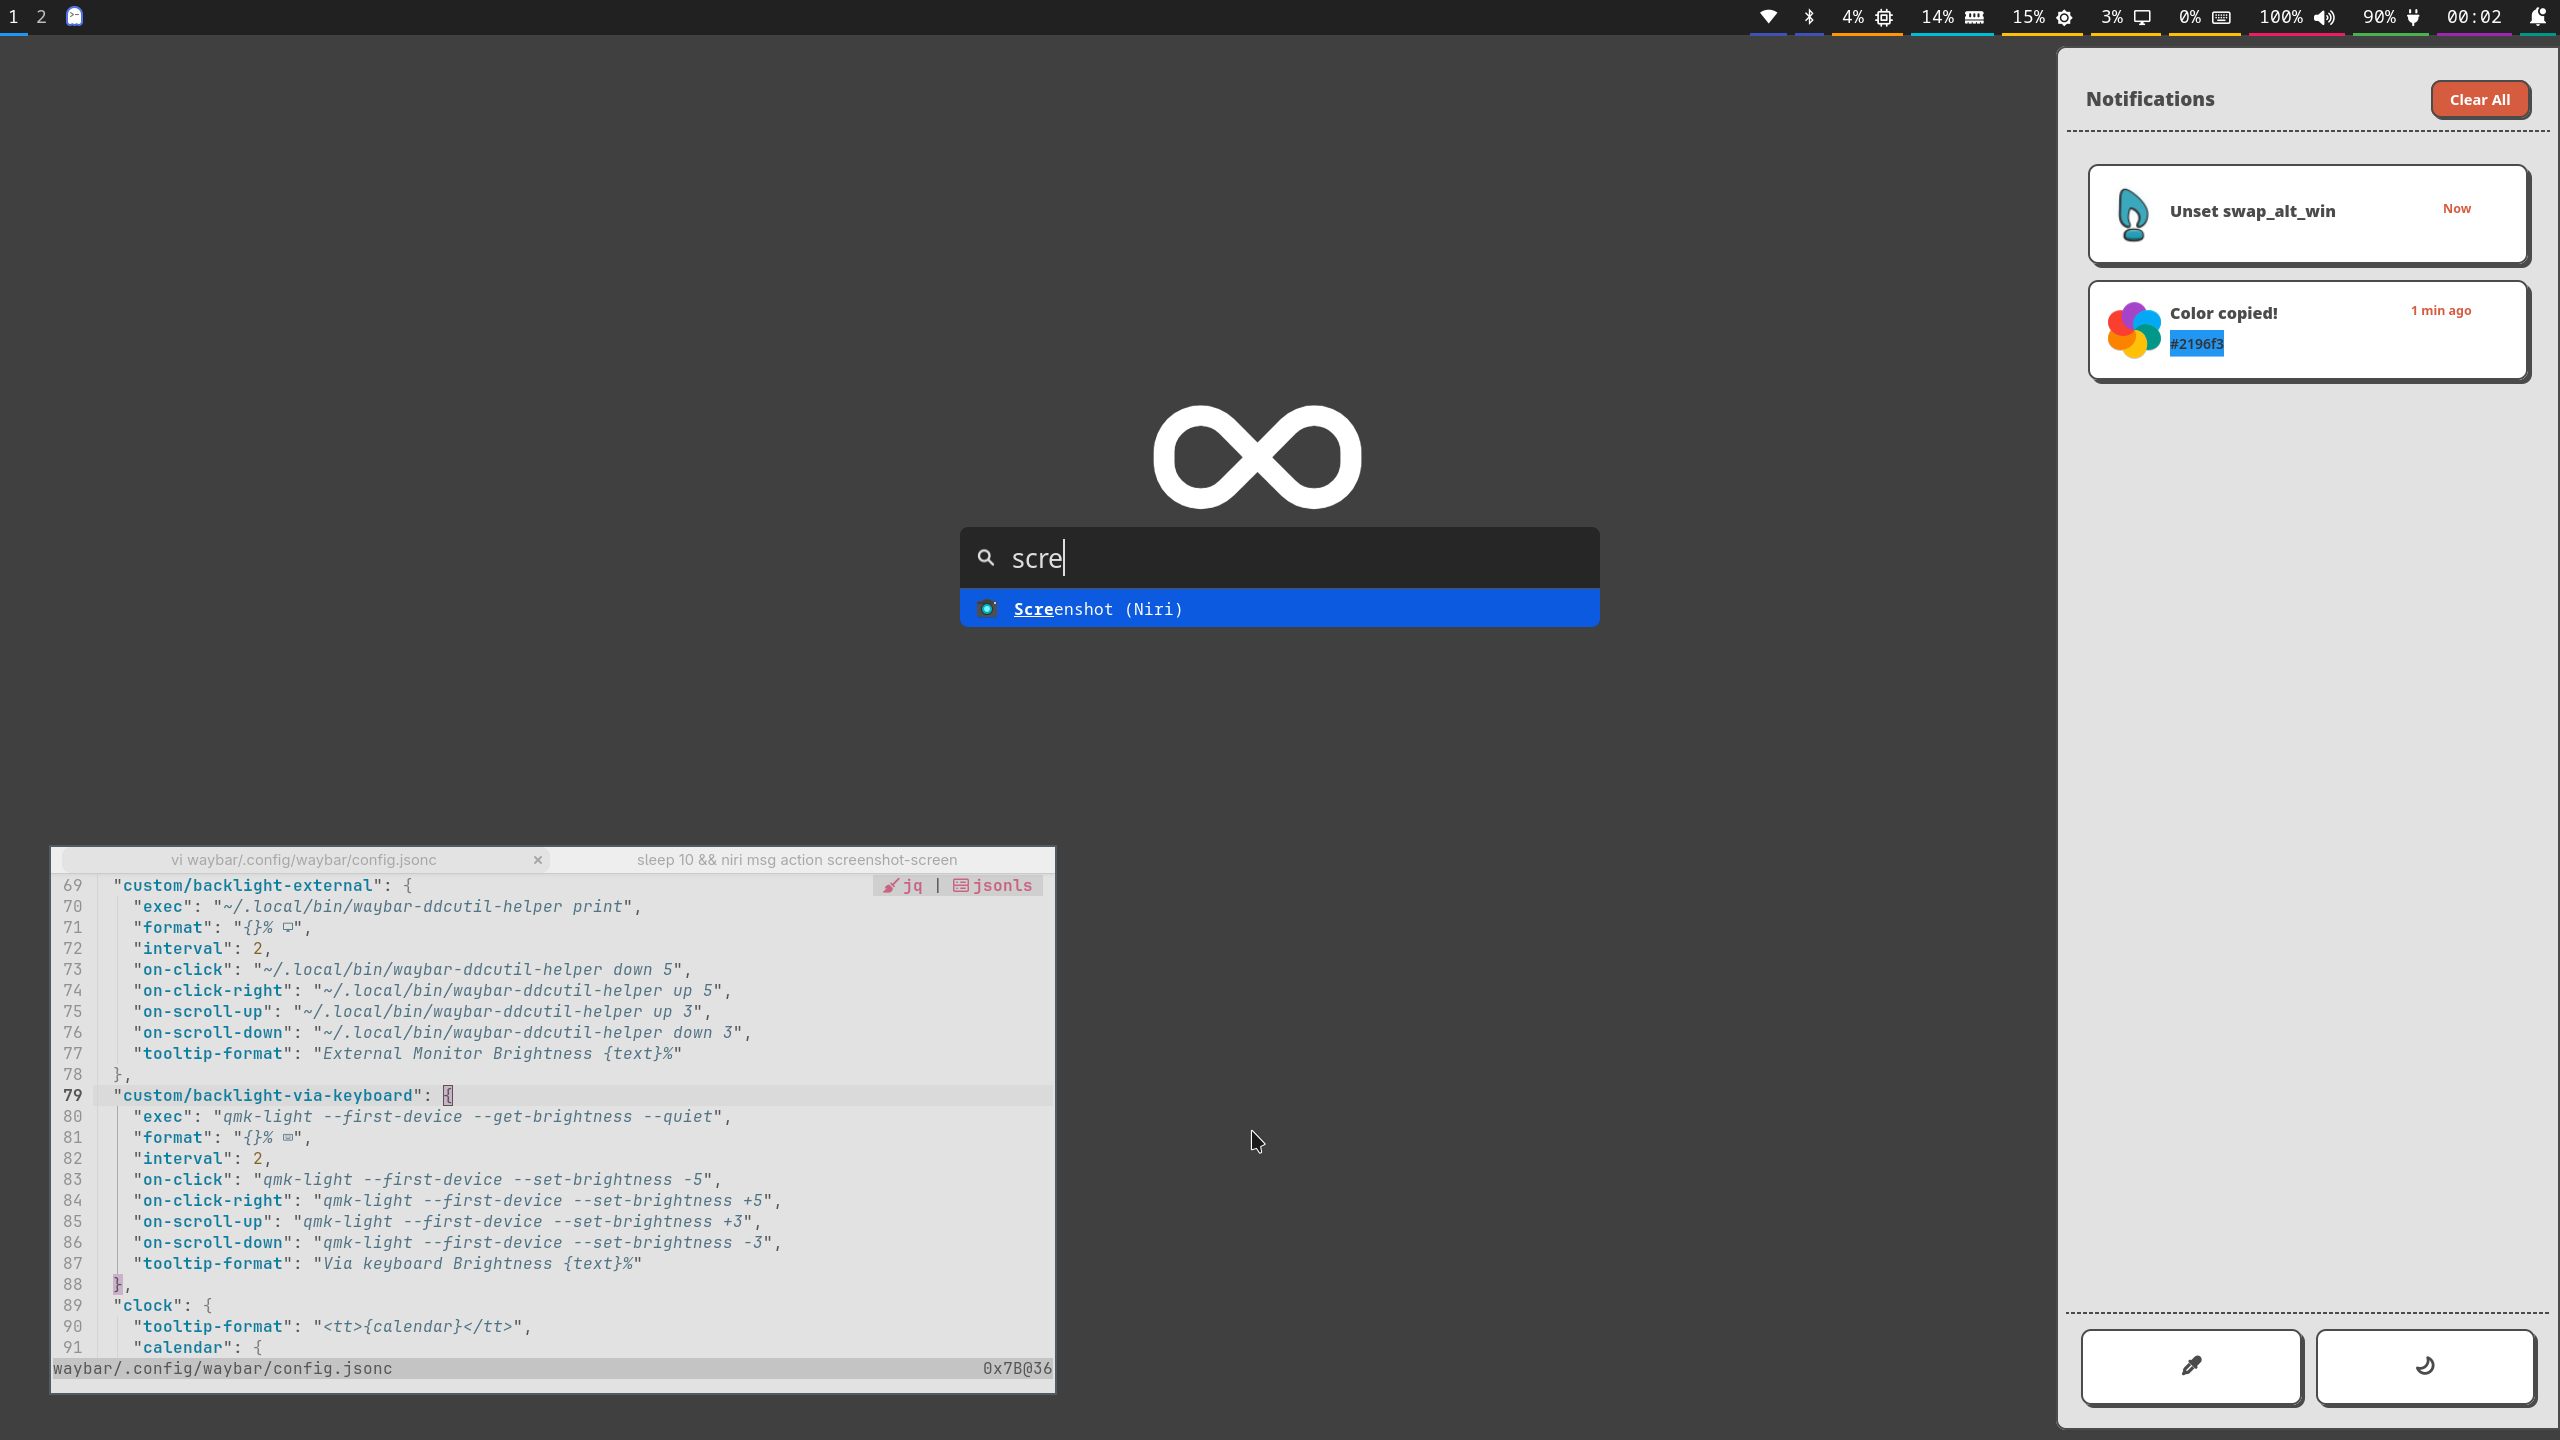
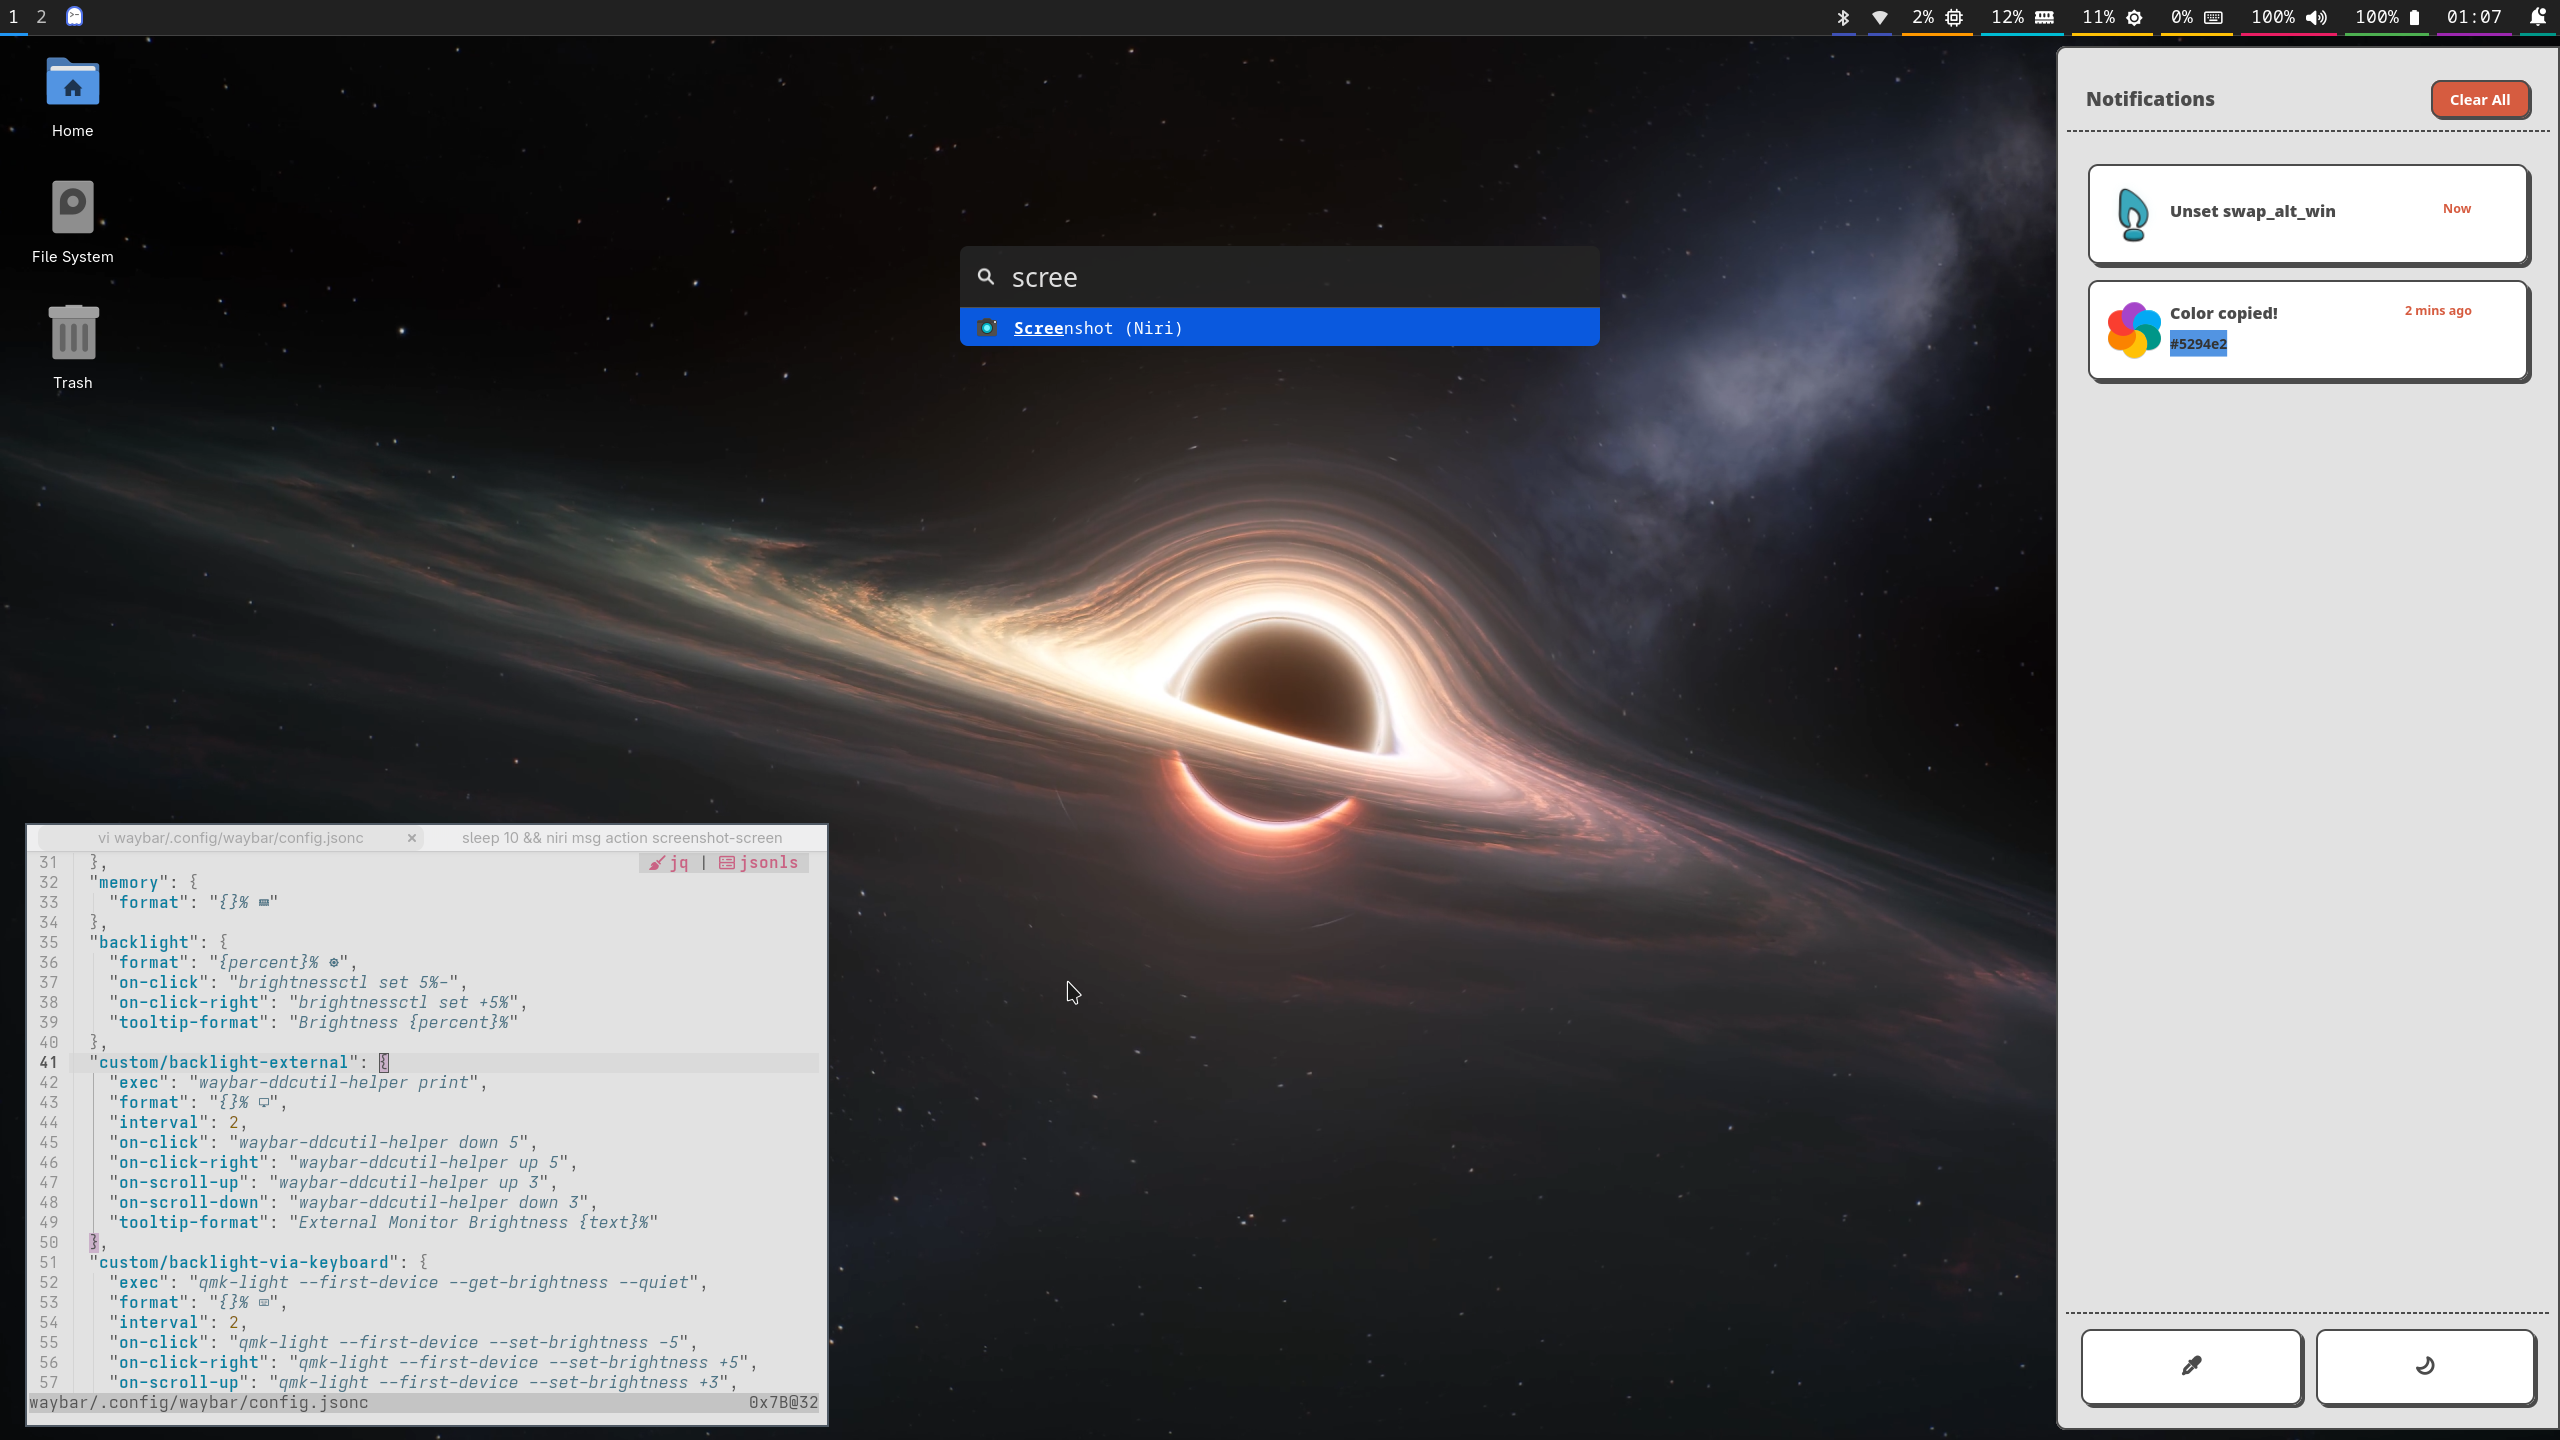
[wallpapers] added wallpaper and use the same wallpaper blurred in swaylock

diff --git a/misc/images/README.md b/misc/images/README.md
@@ -1,0 +1,5 @@
+For adding blur to wallpaper:
+
+```shell
+magick wallpaper.png -blur 0x15 wallpaper-blur.png
+```
